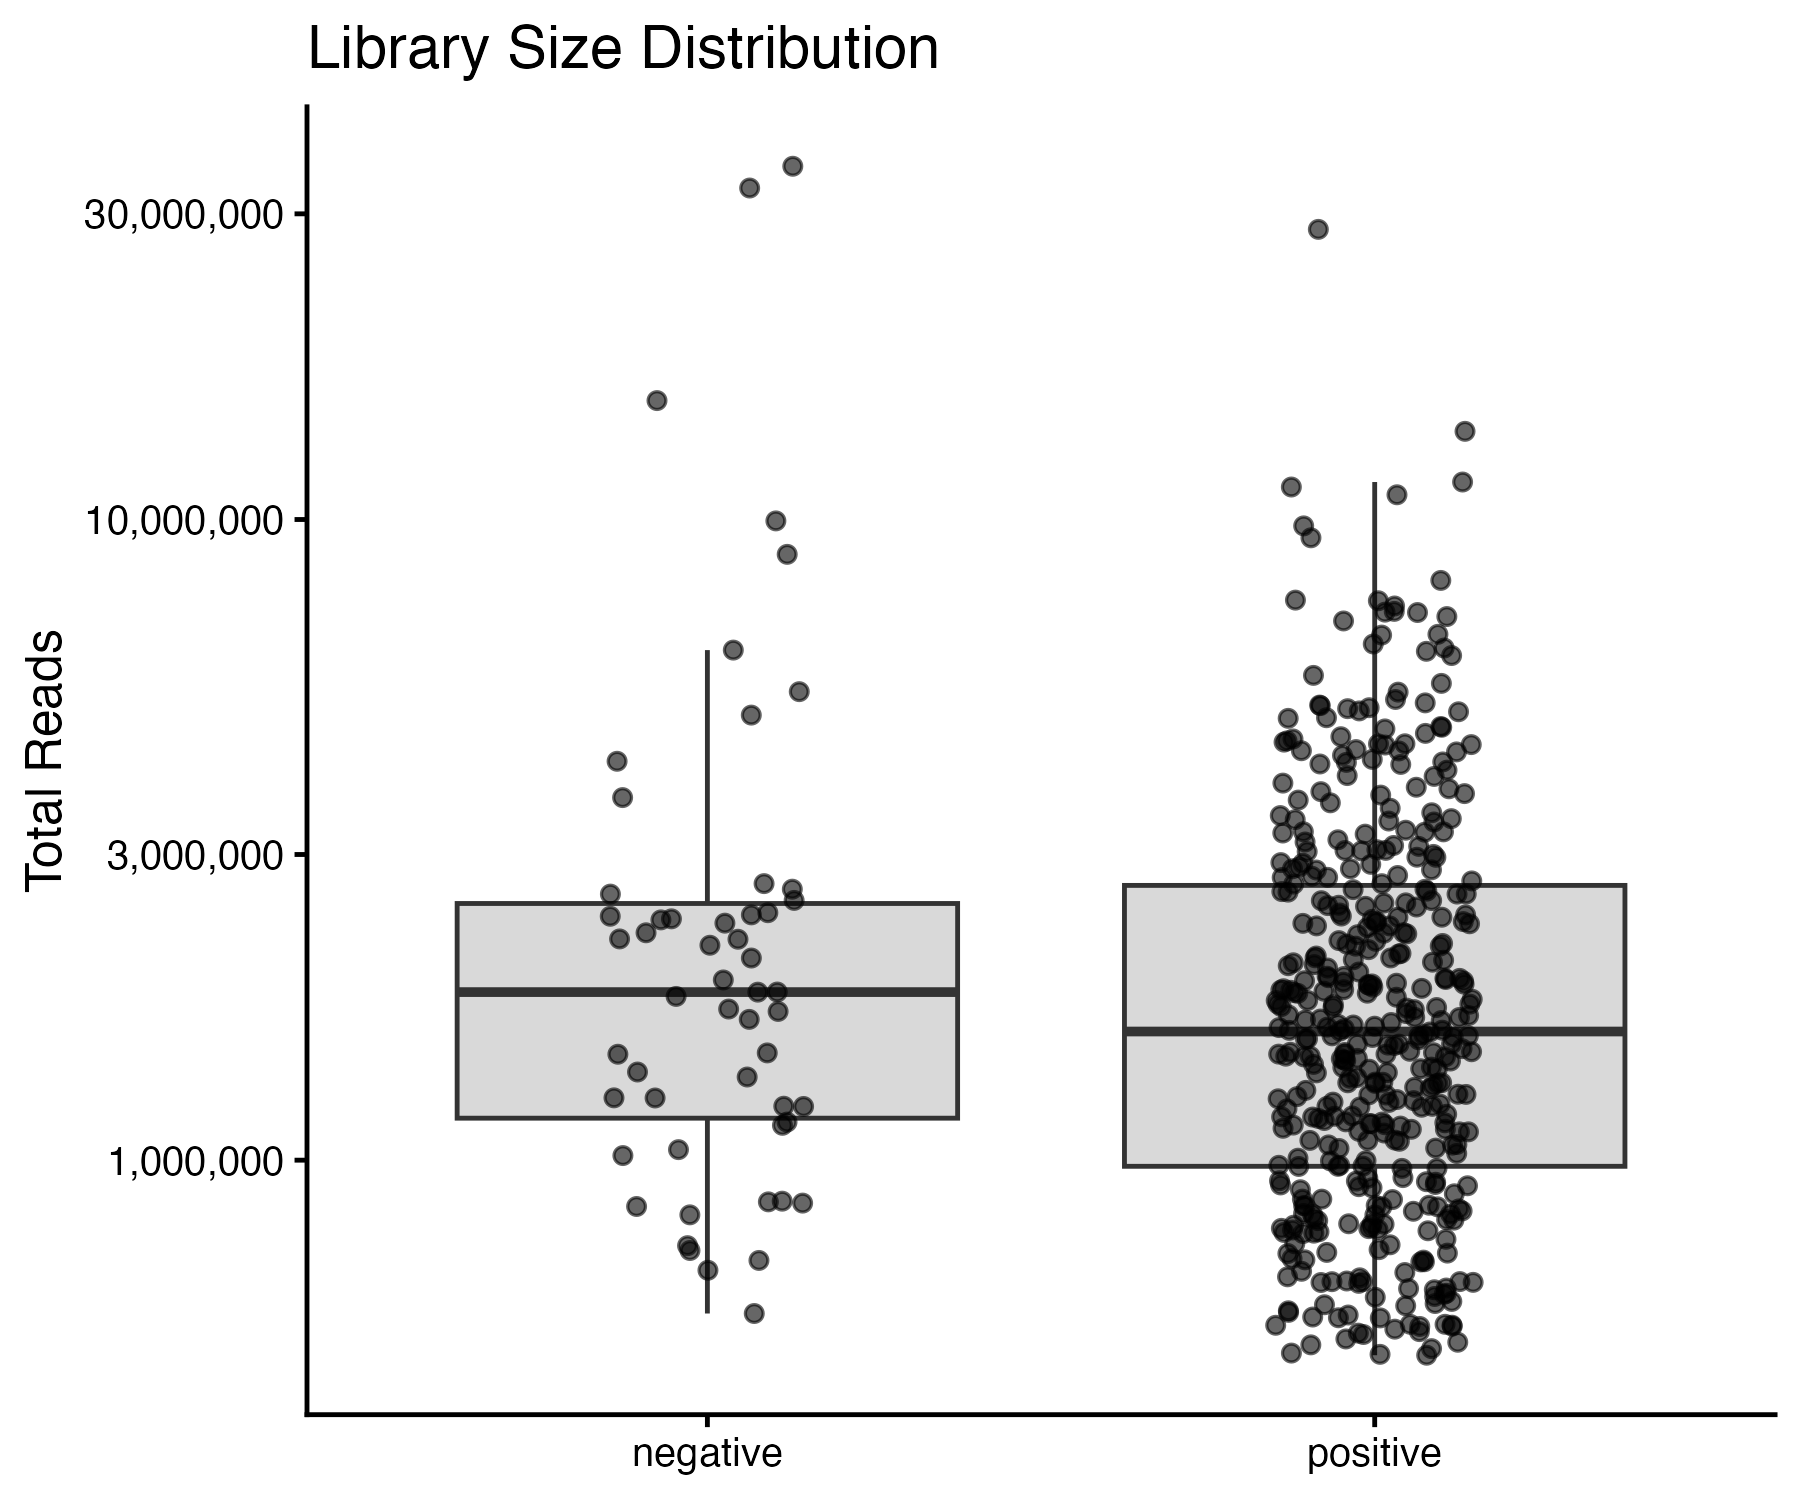
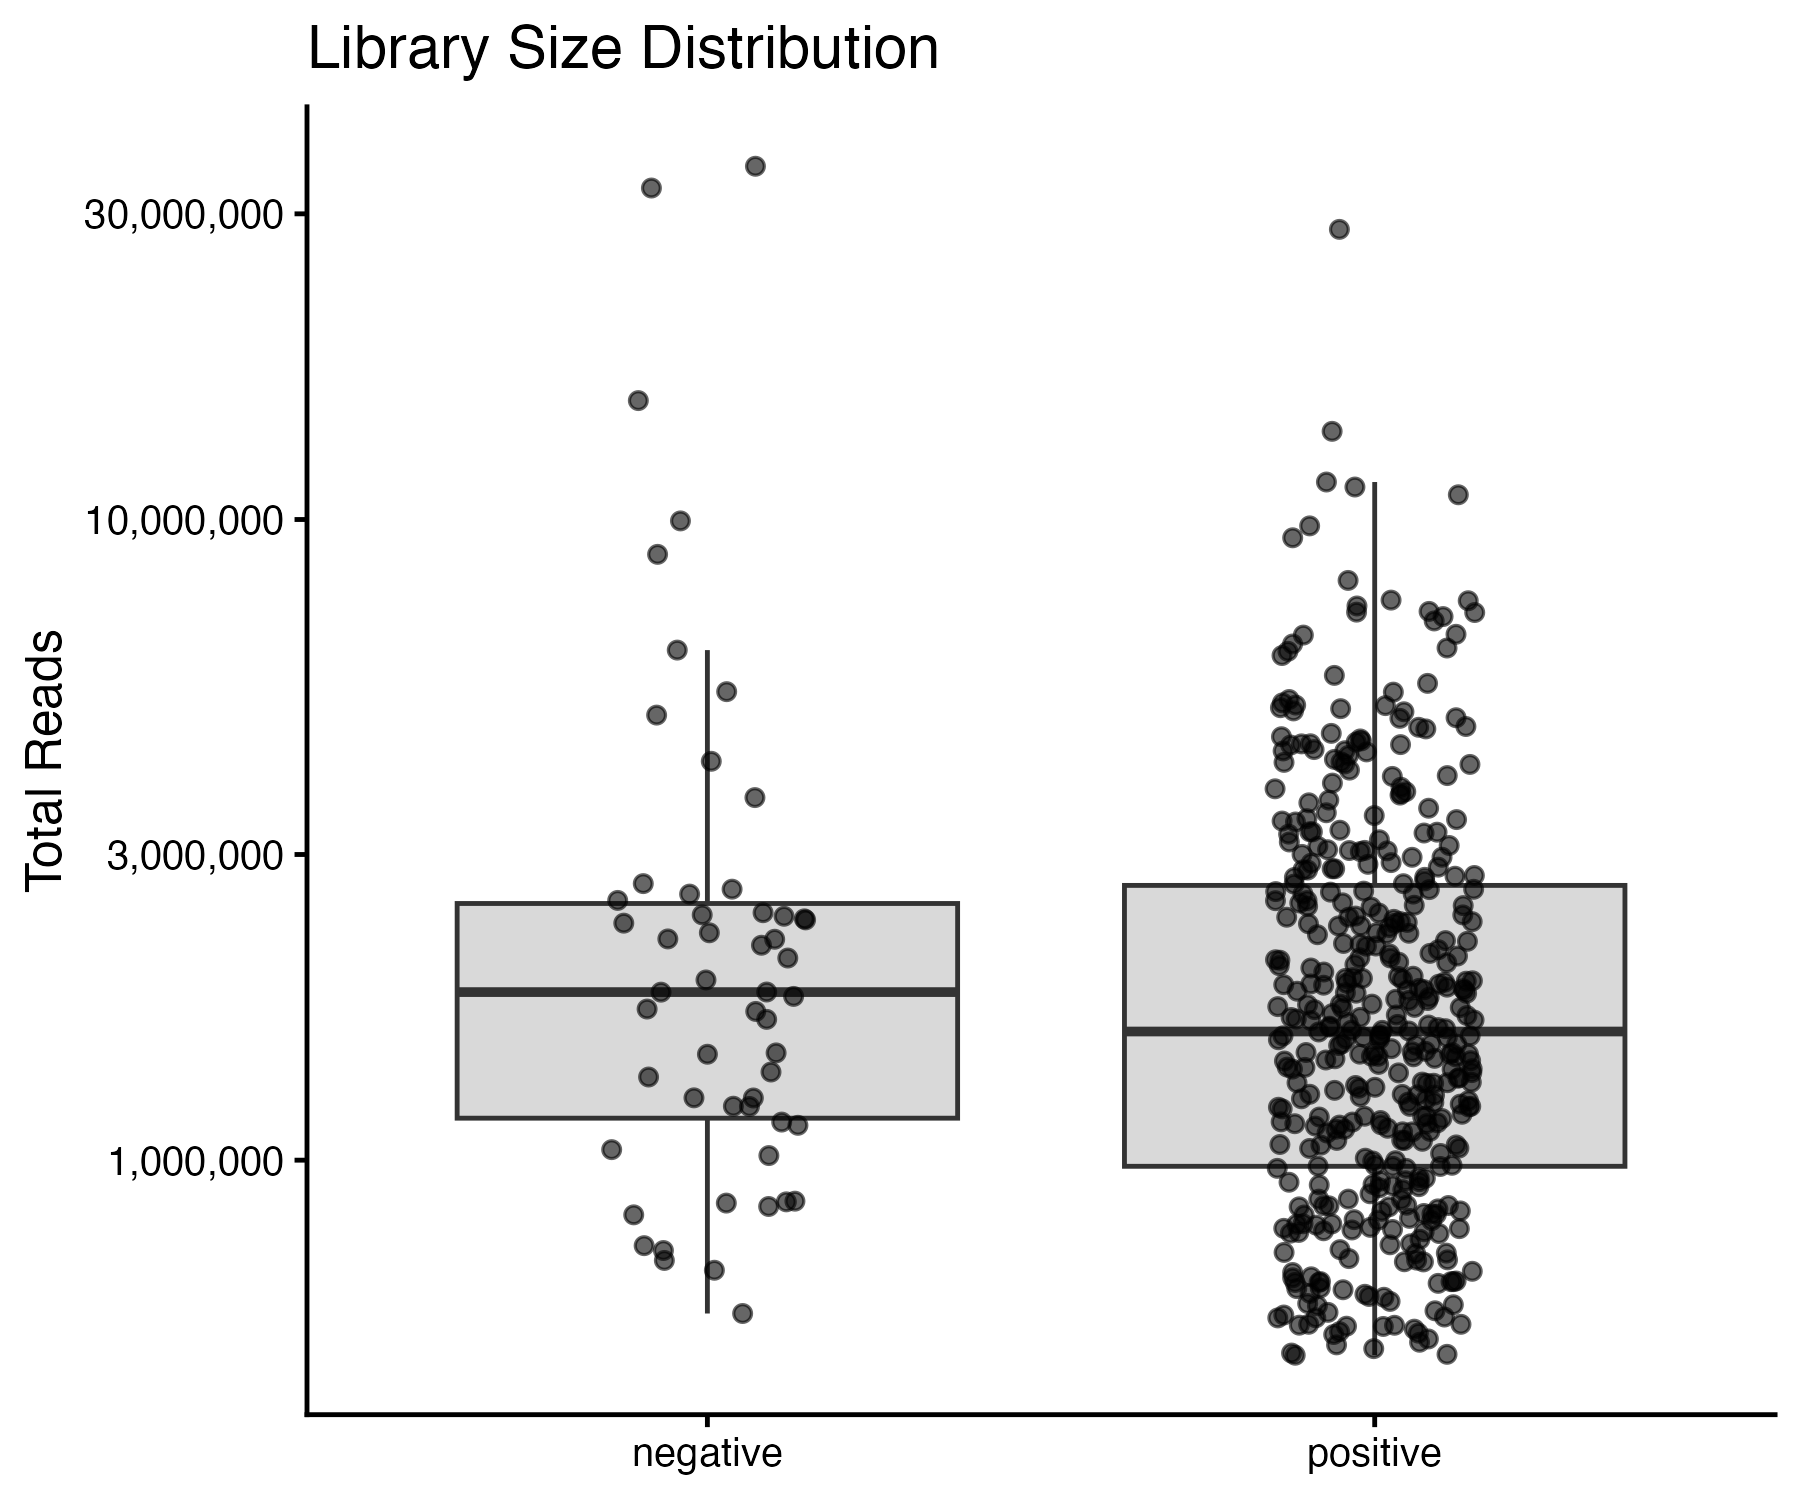
polishing and re running for diagnostic check

diff --git a/README.md b/README.md
@@ -1,73 +1,129 @@
 # SARS-CoV-2 Host Transcriptional Response Analysis
 
-Differential expression analysis of nasopharyngeal swab RNA-seq data comparing SARS-CoV-2 positive and negative samples.
+Differential expression analysis of human nasopharyngeal RNA-seq data demonstrating reproducible bulk RNA-seq workflows, statistical modelling, and biological interpretation of antiviral host responses.
+
+---
+
+## Table of Contents
+
+* [Skills Demonstrated](#skills-demonstrated)
+* [Dataset](#dataset)
+* [Key Results](#key-results)
+* [Analysis Summary](#analysis-summary)
+* [Project Structure](#project-structure)
+* [Workflow](#workflow)
+* [Methods](#methods)
+* [Biological Interpretation](#biological-interpretation)
+* [Limitations](#limitations)
+* [Software Requirements](#software-requirements)
+* [Reproducibility](#reproducibility)
+* [Citation](#citation)
+
+---
+
+## Skills Demonstrated
+
+- Bulk RNA-seq preprocessing and quality control
+- Differential expression modelling with DESeq2
+- Dimensionality reduction and visualisation
+- Pathway enrichment analysis (GO/KEGG)
+- Reproducible, script-based bioinformatics workflows
+
+---
 
 ## Dataset
 
-- **Source:** GSE152075 (NCBI GEO)  
-  https://www.ncbi.nlm.nih.gov/geo/query/acc.cgi?acc=GSE152075
+**GEO Accession:** [GSE152075](https://www.ncbi.nlm.nih.gov/geo/query/acc.cgi?acc=GSE152075)
 
-- **Reference:** Lieberman NAP, Peddu V, Xie H, Shrestha L, Huang M-L, Mears MC, et al. (2020).  
-  *In vivo antiviral host transcriptional response to SARS-CoV-2 by viral load, sex, and age*.  
-  **PLoS Biology** 18(9): e3000849.  
-  https://doi.org/10.1371/journal.pbio.3000849
+**Reference:**  
+Lieberman NAP, Peddu V, Xie H, Shrestha L, Huang M-L, Mears MC, *et al.* (2020)  
+*In vivo antiviral host transcriptional response to SARS-CoV-2 by viral load, sex, and age*  
+**PLoS Biology** 18(9): e3000849  
+DOI: [10.1371/journal.pbio.3000849](https://doi.org/10.1371/journal.pbio.3000849)
 
-- **Platform:** Illumina NovaSeq 6000 (*Homo sapiens*)
-- **Sample type:** Nasopharyngeal swabs
-- **Original dataset:** 484 samples (430 SARS-CoV-2 positive, 54 negative)
-- **Analysis subset:** 60 samples (30 positive, 30 negative; balanced)
+**Platform:** Illumina NovaSeq 6000  
+**Organism:** *Homo sapiens*  
+**Sample type:** Nasopharyngeal swabs  
+**Total samples:** 484 (430 SARS-CoV-2 positive, 54 negative)  
+**Analysis subset:** 60 (30 positive, 30 negative)
 
+Balanced subset used to control class imbalance and reduce confounding by viral load heterogeneity. Random subsampling was performed using a fixed seed (`set.seed(123)` in `01_qc.R`) to ensure identical results across runs.
 
-## Exploratory Analysis and Key Visualizations
+---
+
+## Key Results
 
 ### Library Size Quality Control
 
-<img src="results/figures/qc_library_size.png" width="520">
+<img src="results/figures/qc_library_size.png" width="550">
 
-*Distribution of total read counts across samples after initial quality control, showing comparable library sizes between SARS-CoV-2 positive and negative groups.*
-
----
-
-### Principal Component Analysis (PCA)
-
-<img src="results/figures/pca_plot.png" width="560">
-
-*Principal component analysis of variance-stabilised expression values from a balanced subset of 60 samples (30 SARS-CoV-2 positive, 30 negative). Partial separation by infection status indicates a condition-associated transcriptional signal beyond technical variation.*
+Total read counts across samples stratified by infection status. Libraries show comparable depth between groups (median ~2M reads), supporting robust normalisation. High-depth libraries observed in the full dataset were excluded during sample balancing to ensure comparable distributions between groups.
 
 ---
 
-### Differential Expression Analysis
+### Principal Component Analysis
 
-<img src="results/figures/volcano_plot.png" width="600">
+<img src="results/figures/pca_plot.png" width="580">
 
-*Volcano plot summarising differential gene expression between SARS-CoV-2 positive and negative samples. Genes with large effect sizes and strong statistical support are highlighted, consistent with an interferon-mediated antiviral response.*
+Variance-stabilised expression from 60 balanced samples (30 per group). PC1 (33% variance) partially separates infected from control samples, indicating a detectable transcriptional signature. Overlap reflects biological heterogeneity and the known variability of viral load and host response in nasopharyngeal samples.
 
+---
 
+### Differential Expression
 
+<img src="results/figures/volcano_plot.png" width="620">
 
+Genome-wide differential expression between SARS-CoV-2 positive and negative samples. Labelled genes represent the most significant findings (padj < 0.001, |log₂FC| > 2), chosen for visual clarity while statistical testing used |log₂FC| > 1. Results are dominated by interferon-stimulated genes (IFIT1/2/3, OAS3, CXCL10, DDX58) characteristic of antiviral immunity.
+
+**Note on subset analysis:** The balanced 60-sample subset captures the core ISG signature observed in the full 484-sample dataset while controlling for class imbalance. Effect sizes in the balanced analysis are comparable to full-dataset analyses (Lieberman *et al.* 2020), validating the biological interpretation despite reduced statistical power.
+
+---
+
+## Analysis Summary
+
+**Differentially expressed genes (padj < 0.05):** 2,001  
+- Upregulated in SARS-CoV-2: 1,099  
+- Downregulated in SARS-CoV-2: 803
+
+**Top interferon-stimulated genes ranked by effect size and statistical significance:**
+
+| Gene | Function | log₂FC | Adjusted *P* |
+|------|----------|--------|--------------|
+| IFIT1 | Interferon-induced translation inhibitor | 3.5 | <10⁻²⁰ |
+| IFIT2 | Interferon-induced translation inhibitor | 3.2 | <10⁻¹⁸ |
+| IFIT3 | Interferon-induced translation inhibitor | 3.1 | <10⁻¹⁷ |
+| OAS3 | 2'-5'-Oligoadenylate synthetase | 3.0 | <10⁻¹⁷ |
+| CXCL10 | Chemokine (interferon-γ inducible) | 2.9 | <10⁻²⁰ |
+| DDX58 | RIG-I (viral RNA sensor) | 2.8 | <10⁻¹⁹ |
+| GBP1 | Guanylate-binding protein | 2.7 | <10⁻¹⁹ |
+
+The signature is consistent with type I/II interferon responses to viral infection.
+
+---
 
 ## Project Structure
 
 ```
 bulk-rnaseq-differential-expression/
-├── scripts/
-│   ├── 00_get_data.R              # Download data from GEO
-│   ├── 01_qc.R                    # Quality control and filtering
-│   ├── 02_pca.R                   # Principal component analysis
-│   ├── 03_deseq2.R                # Differential expression testing
-│   ├── 04_volcano.R               # Volcano plot visualization
-│   ├── 05_model_diagnostics.R     # QC plots (MA, dispersion, heatmaps)
-│   ├── 06_enrichment.R            # KEGG/GO pathway analysis
-│   └── 07_reproducibility.R       # Session info
+├── scripts/                           # Fully modular, executable analysis pipeline
+│   ├── 00_get_data.R                  # Download GEO data
+│   ├── 01_qc.R                        # Quality control and filtering
+│   ├── 02_pca.R                       # Dimensionality reduction
+│   ├── 03_deseq2.R                    # Statistical testing
+│   ├── 04_visualisation_volcano.R     # Volcano plot
+│   ├── 05_model_diagnostics.R         # Model QC (MA, dispersion, heatmaps)
+│   ├── 06_enrichment.R                # Pathway analysis
+│   ├── 07_reproducibility.R           # Session info
+│   └── 08_pathway_diagram.R           # ISG pathway visualisation
 ├── data/
-│   ├── raw/                       # Downloaded GEO files
-│   ├── counts_raw.rds             # Raw count matrix
-│   ├── counts_clean.rds           # Filtered counts
-│   ├── metadata.rds               # Sample information
-│   ├── dds_object.rds             # DESeq2 object
-│   └── vst_data.rds               # Variance-stabilized data
+│   ├── raw/                           # Downloaded GEO files
+│   ├── counts_raw.rds
+│   ├── counts_clean.rds
+│   ├── metadata.rds
+│   ├── dds_object.rds
+│   └── vst_data.rds
 ├── results/
-│   ├── figures/                   # All plots
+│   ├── figures/
 │   │   ├── qc_library_size.png
 │   │   ├── pca_plot.png
 │   │   ├── pca_scree.png
@@ -76,108 +132,99 @@ bulk-rnaseq-differential-expression/
 │   │   ├── dispersion_plot.png
 │   │   ├── sample_distances.png
 │   │   ├── top50_heatmap.png
+│   │   ├── pathway_diagram.png        # ISG signalling cascade
 │   │   ├── kegg_dotplot.png
 │   │   └── go_dotplot.png
-│   ├── tables/                    # Results tables
+│   ├── tables/
 │   │   ├── deseq2_results.csv
 │   │   ├── top_genes.csv
 │   │   ├── kegg_pathways.csv
 │   │   └── go_biological_process.csv
-│   └── session_info.txt           # Reproducibility info
+│   └── session_info.txt
 └── README.md
 ```
 
-## Analysis Workflow
+---
 
-Run scripts in order from project root:
+## Workflow
+
+Execute scripts sequentially from the project root:
 
 ```r
 source("scripts/00_get_data.R")
 source("scripts/01_qc.R")
 source("scripts/02_pca.R")
 source("scripts/03_deseq2.R")
-source("scripts/04_volcano.R")
+source("scripts/04_visualisation_volcano.R")
 source("scripts/05_model_diagnostics.R")
 source("scripts/06_enrichment.R")
 source("scripts/07_reproducibility.R")
+source("scripts/08_pathway_diagram.R")
 ```
 
-Or run all at once:
-```r
-scripts <- sprintf("%02d", 0:7)
-scripts <- c("get_data", "qc", "pca", "deseq2", "volcano", 
-             "model_diagnostics", "enrichment", "reproducibility")
-for (i in seq_along(scripts)) {
-  source(paste0("scripts/", sprintf("%02d", i-1), "_", scripts[i], ".R"))
-}
-```
+All scripts are deterministic and can be executed end-to-end on a clean system. Sample selection in `01_qc.R` uses `set.seed(123)` to ensure identical subsets across independent runs.
 
-## Key Results
+---
 
-### Differential Expression
+## Methods
 
-- **2,001 genes** significantly differentially expressed (FDR < 0.05)
-- **1,099 upregulated** in SARS-CoV-2 positive samples
-- **803 downregulated** in SARS-CoV-2 positive samples
+### Quality Control
+- Minimum library size: 100,000 reads
+- Gene filtering: CPM ≥ 1 in ≥10 samples
+- Final gene count: 14,220 tested
+- Sample balancing: Random selection of 30 per group using fixed seed (123), performed prior to normalisation to avoid size-factor bias
 
-### Top Upregulated Genes (ISG Signature)
+### Statistical Analysis
+- **Normalisation:** DESeq2 median-of-ratios
+- **Dispersion estimation:** Gene-wise maximum likelihood with empirical Bayes shrinkage
+- **Hypothesis testing:** Wald test
+- **Multiple testing correction:** Benjamini-Hochberg procedure (FDR < 0.05)
+- **Effect size threshold:** |log₂FC| > 1 for biological relevance (volcano plot uses |log₂FC| > 2 for visual clarity)
+- **Outlier handling:** Cook's distance with iterative refitting
 
-| Gene | Description | log2FC | padj |
-|------|-------------|--------|------|
-| **IFIT1** | Interferon-induced protein with tetratricopeptide repeats 1 | 3.5 | < 1e-20 |
-| **IFIT2** | Interferon-induced protein with tetratricopeptide repeats 2 | 3.2 | < 1e-18 |
-| **IFIT3** | Interferon-induced protein with tetratricopeptide repeats 3 | 3.1 | < 1e-17 |
-| **OAS3** | 2'-5'-Oligoadenylate synthetase 3 | 3.0 | < 1e-17 |
-| **CXCL10** | C-X-C motif chemokine ligand 10 | 2.9 | < 1e-20 |
-| **DDX58** | DExD/H-box helicase 58 (RIG-I) | 2.8 | < 1e-19 |
-| **GBP1** | Guanylate binding protein 1 | 2.7 | < 1e-19 |
+### Exploratory Analysis
+- **Transformation:** Variance-stabilising transformation for visualisation
+- **Dimensionality reduction:** Principal component analysis on 500 most variable genes (variance calculated on VST-transformed counts)
 
-### Enriched Pathways
+---
 
-**KEGG Pathways:**
-- RIG-I-like receptor signaling
-- Cytokine-cytokine receptor interaction
-- Influenza A response
-- NOD-like receptor signaling
+## Biological Interpretation
 
-**GO Biological Process:**
-- Type I interferon signaling pathway
-- Defense response to virus
-- Innate immune response
-- Inflammatory response
+<img src="results/figures/pathway_diagram.png" width="650">
 
-## Statistical Methods
+*Conceptual pathway showing interferon-stimulated gene (ISG) signalling cascade. Viral RNA is detected by RIG-I (DDX58), triggering interferon production and downstream activation of antiviral effectors.*
 
-- **Normalization:** DESeq2 median-of-ratios
-- **Dispersion:** Gene-wise maximum likelihood estimates with empirical Bayes shrinkage
-- **Testing:** Wald test
-- **Multiple testing:** Benjamini-Hochberg FDR correction (α = 0.05)
-- **Effect size:** log2 fold change > 1 for biological significance
-- **Outlier detection:** Cook's distance with automatic refitting
+---
 
-## Quality Control
+The dominant transcriptional programme reflects innate antiviral immunity driven by interferon-stimulated genes (ISGs):
 
-### Sample Filtering
-- Library size > 100,000 reads
-- Balanced design: 30 samples per condition (random subset)
+1. **Viral recognition:** DDX58 (RIG-I) detects cytoplasmic viral RNA
+2. **Translation inhibition:** IFIT1/2/3 block viral protein synthesis
+3. **RNA degradation:** OAS3 activates RNase L
+4. **Immune recruitment:** CXCL10 attracts effector T cells and NK cells
+5. **Inflammasome priming:** Upregulation of cytosolic pattern recognition receptors and interferon signalling components
 
-### Gene Filtering
-- CPM ≥ 1 in at least 10 samples
-- Removed genes with zero variance
-- Final: 14,220 genes tested
+This response is protective during acute infection but may contribute to immunopathology in severe COVID-19.
 
-### Model Diagnostics
-- **MA plot:** No intensity-dependent bias
-- **Dispersion plot:** Good fit to mean-dispersion relationship
-- **Sample clustering:** Clear separation by infection status (PCA, distance matrix)
-- **No batch effects:** Samples cluster by biological condition, not technical factors
+---
 
-## Requirements
+## Limitations
+
+- Analysis restricted to nasopharyngeal tissue and may not generalise to lower respiratory tract responses
+- Subsampling reduces power for low-effect genes but improves interpretability and class balance
+- Balanced design controls for viral load heterogeneity but limits analysis of dose-response relationships
+
+---
+
+## Software Requirements
 
 ### R Packages
 
 **Bioconductor:**
 ```r
+if (!require("BiocManager", quietly = TRUE))
+    install.packages("BiocManager")
+
 BiocManager::install(c(
   "DESeq2",
   "edgeR",
@@ -197,40 +244,41 @@ install.packages(c(
 ))
 ```
 
-### System Requirements
+### System
 - R ≥ 4.0
-- 8GB RAM minimum
-- 2GB disk space for data
+- 8GB RAM recommended
+- ~2GB storage for GEO data
 
-## Biological Interpretation
-
-The transcriptional response to SARS-CoV-2 infection is dominated by interferon-stimulated genes (ISGs), indicating activation of innate antiviral immunity:
-
-1. **Viral sensing:** DDX58 (RIG-I) recognizes viral RNA
-2. **Interferon signaling:** IFIT1/2/3 inhibit viral translation
-3. **Antiviral enzymes:** OAS3 activates RNase L to degrade viral RNA
-4. **Immune cell recruitment:** CXCL10 attracts T cells and NK cells
-5. **Inflammasome activation:** NLRP3-related genes upregulated
-
-This signature is protective but excessive activation contributes to COVID-19 severity.
+---
 
 ## Reproducibility
 
-All package versions and system details are recorded in `results/session_info.txt` after running `07_reproducibility.R`.
+Package versions and system details are recorded in `results/session_info.txt` after running `07_reproducibility.R`.
+
+All random processes (sample selection, permutation-based tests) use fixed seeds to ensure bit-for-bit reproducibility across systems.
+
+---
 
 ## Citation
 
-If using this analysis:
+Data analysed from:
 
-> Analysis of GSE152075 data from Lieberman NAP, et al. (2020). In vivo antiviral host transcriptional response to SARS-CoV-2 by viral load, sex, and age. *Cell* 183(4):1016-1027.e22. doi: 10.1016/j.cell.2020.10.037
+> Lieberman NAP, Peddu V, Xie H, Shrestha L, Huang M-L, Mears MC, *et al.* (2020)  
+> In vivo antiviral host transcriptional response to SARS-CoV-2 by viral load, sex, and age.  
+> *PLoS Biology* 18(9): e3000849.  
+> DOI: [10.1371/journal.pbio.3000849](https://doi.org/10.1371/journal.pbio.3000849)
+
+---
 
 ## Author
 
 **Ekin Kahraman**  
-Bioinformatics Portfolio Project  
 January 2026
 
-## License
+---
 
-Code: MIT License  
-Data: GEO accession GSE152075 (public domain)
+## Data Availability
+
+- **Source data:** GEO accession [GSE152075](https://www.ncbi.nlm.nih.gov/geo/query/acc.cgi?acc=GSE152075) (public)
+- **Analysis code:** Available in this repository
+- **Processed results:** `results/tables/deseq2_results.csv`
